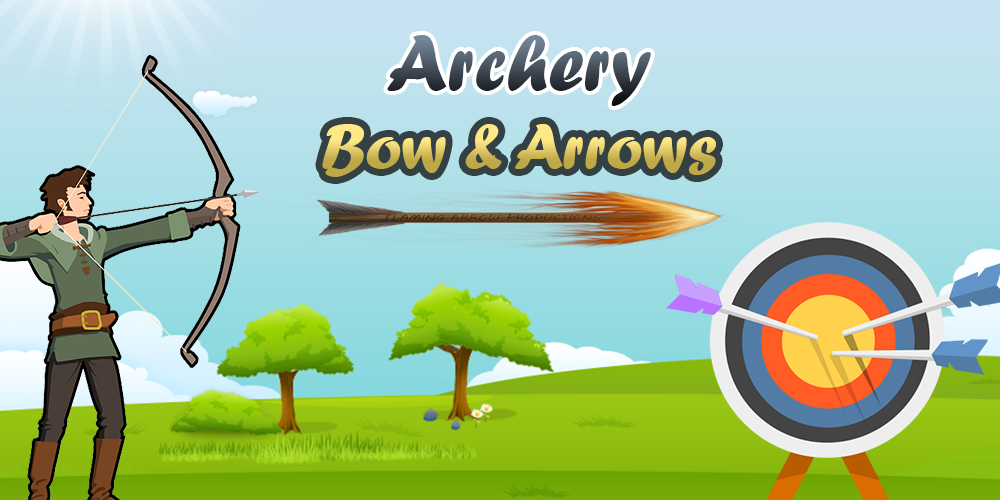
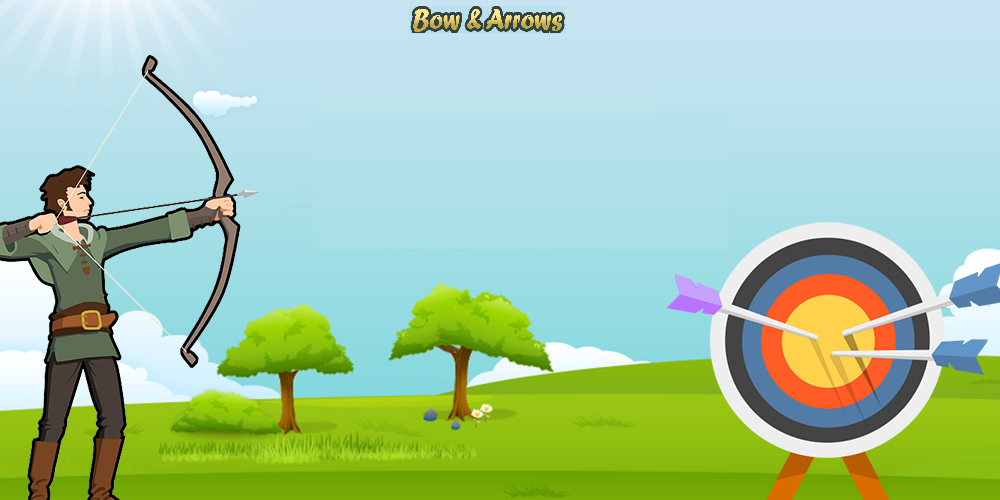
Added Restart and Pause controls

Changed region(s): [[0.31, 0.0, 0.744, 0.51]]

diff --git a/arrow.js b/arrow.js
@@ -14,7 +14,7 @@ var sPressed = false;
 var space=false;
 var lives=10;
 var score=0;
-var flag=1;
+var flag=1,animate,toggle=1;
 document.addEventListener("keydown", keyDownHandler, false);
 document.addEventListener("keyup", keyUpHandler, false);
 window.addEventListener("load", function(){alert("Welcom to Bow and Arrow Game! \n Points: \n Yellow - 50 \n Red - 30 \n Blue - 10")}, false);
@@ -49,7 +49,7 @@ function drawArrow(){
                 ctx.beginPath();
                 ctx.moveTo(fromx, fromy);
                 ctx.lineTo(tox, toy);
-                ctx.strokeStyle = "#cc0000";
+                ctx.strokeStyle = "rgb(185,115,255)";
                 ctx.lineWidth = 3;
                 ctx.stroke();
                 //arrowhead
@@ -59,10 +59,10 @@ function drawArrow(){
                 ctx.lineTo(tox, toy);
                 ctx.lineTo(tox-headlen*Math.cos(angle-Math.PI/7),toy-headlen*Math.sin(angle-Math.PI/7));
                 //draws the paths created above
-                ctx.strokeStyle = "#cc0000";
+                ctx.strokeStyle = "rgb(185,115,255)";
                 ctx.lineWidth = 3;
                 ctx.stroke();
-                ctx.fillStyle = "#cc0000";
+                ctx.fillStyle = "rgb(185,115,255)";
                 ctx.fill();
 }
 function drawBullsEye()
@@ -124,6 +124,19 @@ setTimeout(function(){if(lives){
             }},50);
     }
 }
+function pause(e){
+        e.preventDefault(); 
+        if(toggle){
+            toggle=0;
+            cancelAnimationFrame(animate);
+            document.getElementById("pause").textContent="Resume";
+        } 
+        else{
+            toggle=1; 
+            document.getElementById("pause").textContent="Pause";
+            animate=requestAnimationFrame(draw);
+        }
+}
 function draw() {
     ctx.clearRect(0, 0, canvas.width, canvas.height);
     ctx.globalCompositeOperation ='destination-over';
@@ -167,6 +180,8 @@ function draw() {
         document.location.reload();
         },1000);
     }
-requestAnimationFrame(draw);
-    }
-requestAnimationFrame(draw);
+    animate=requestAnimationFrame(draw);
+}
+animate=requestAnimationFrame(draw);
+document.getElementById("restart").addEventListener("click",function(e){ e.preventDefault(); window.location.reload();},false);
+document.getElementById("pause").addEventListener("click",pause,false); 

diff --git a/arrow.css b/arrow.css
@@ -1,8 +1,9 @@
-body{margin:7vh 24vw;
+body{margin:7vh 22vw;
 	padding:0px;
 	background-image: url("bg.png");
+	background-repeat: no-repeat;
 	background-size: cover;
-	background-repeat: no-repeat;}
+}
 canvas { background: rgb(179,225,234);
 margin:0px;
 border-width: 2px 2px 0px 2px;
@@ -26,4 +27,18 @@ border-style: solid; }
 	color:black;
 	border-width: 0px 2px 2px 2px;
 	background: rgb(146,192,17);
+	margin-bottom: 4vh;
+}
+a{
+	text-decoration: none;
+	color: black;
+	font-weight:bold;
+    font-family: 'Open Sans', sans-serif;
+	padding:5px;
+	margin:0px 8vw 0px 10vw;
+	border-width: 2px;
+	border-style: solid;
+	border-radius: 5px;
+	border-color: black;
+	background: gray;
 }

diff --git a/arrow.html b/arrow.html
@@ -10,6 +10,8 @@
 <div id="lives"></div>
 <div id="score"></div>
 <div id="status">Shoot your arrow!</div>
+<a href ="restart.html" id ="restart">Restart</a>
+<a href="pause.html" id ="pause">Pause</a>
 <script src="arrow.js"></script>
 </body>
 </html>
